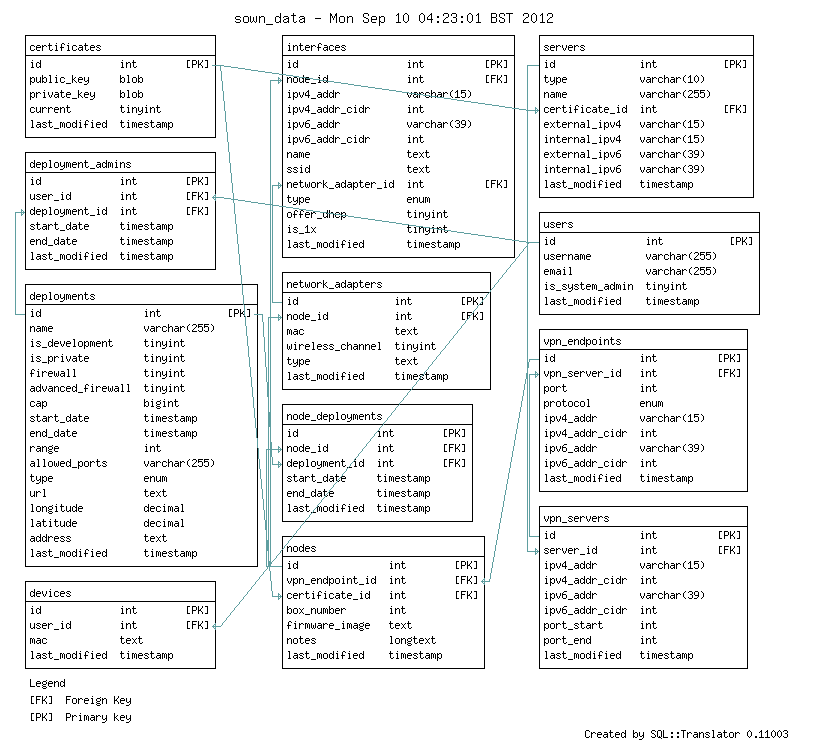
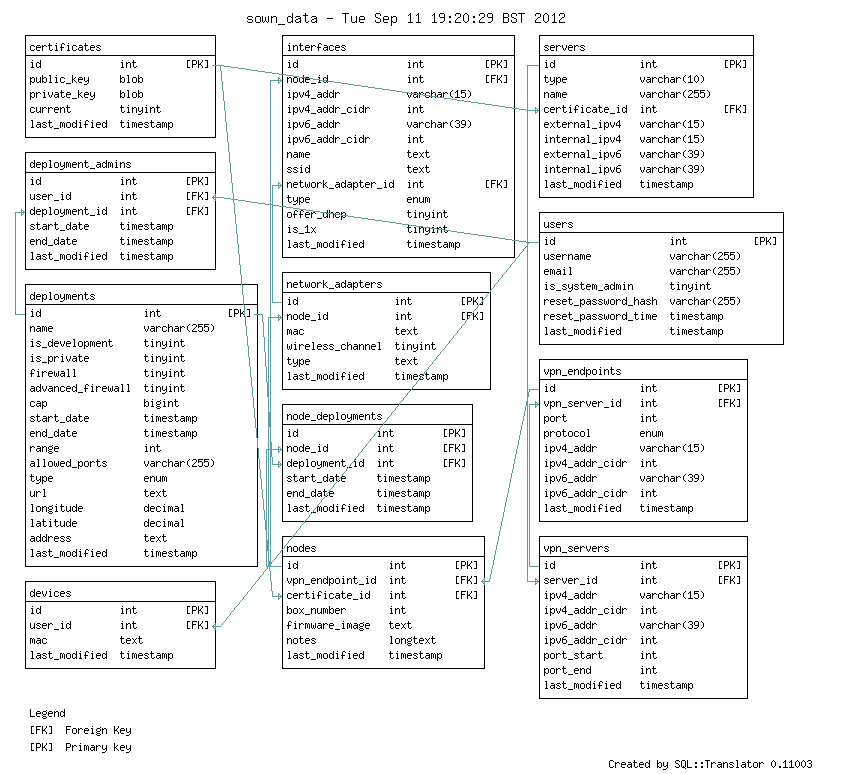
Got forgot and reset passwords view working and moved change password to the login controller.  Updated the User model to support reset of passwordsusing a unique hash

Changed region(s): [[0.0, 0.0, 0.9463, 0.9892], [0.7021, 0.9583, 0.9768, 1.0]]

diff --git a/application/classes/controller/login.php b/application/classes/controller/login.php
@@ -2,6 +2,17 @@
 
 class Controller_Login extends Controller
 {
+        public function check_login($role = NULL)
+        {
+                if (!Auth::instance()->logged_in($role))
+                {
+                        if (!Auth::instance()->logged_in())
+                                $this->request->redirect(Route::url('login').URL::query(array('url' => $this->request->url())));
+                        else
+                                throw new HTTP_Exception_403('You do not have permission to access this page.');
+                }
+        }
+
 	public function action_login_page()
 	{
 		$view = View::Factory("pages/login");
@@ -74,11 +85,12 @@ class Controller_Login extends Controller
 			{
 				$admin_system_url = Kohana::$config->load('system.default.admin_system.url');
 				$sender_name = Kohana::$config->load('system.default.admin_system.sender_name');
-				$user->resetPasswordHash = md5($user->username.date('U').rand());				
-				$user->save(); //This isn't saving the password hash
-				$email_body = "Hi " . $user->username . ",\n\nSomeone has requested a password reset for your account.  Click the following link to reset you password:\n\n" . $admin_system_url . "/reset_password?hash=" . $user->resetPasswordHash . "\n\nTo cancel this password reset click the following link:\n\n" . $admin_system_url . "/cancel_password_reset?hash=" . $user->resetPasswordHash . "\n\nRegards\n\n" . $sender_name . "\n" . Kohana::$config->load('system.default.admin_system.contact_email');
+				$user->resetPasswordHash = md5($user->username . date('U') . rand());
+				$user->resetPasswordTime = new \DateTime();
+				$user->save();
+				$email_body = "Hi " . $user->username . ",\n\nSomeone has requested a password reset for your account.  If this was not you, just ignore this email and the request will expire in 24 hours.  Otherwise, click the following link by " . date('H:i', time()) . " tomorrow to reset your password:\n\n" . $admin_system_url . "/reset_password/" . $user->resetPasswordHash . "\n\nRegards\n\n$sender_name\n" . Kohana::$config->load('system.default.admin_system.contact_email');
 				mail($user->email, Kohana::$config->load('system.default.admin_system.email_subject_prefix') . " Password reset", $email_body, "From: $sender_name <" . Kohana::$config->load('system.default.admin_system.sender_email') . ">");
-				$content->info['message'][] = "An email has been sent to you with a reset password URL";
+				$content->info['notice'][] = "An email has been sent to you with a reset password URL";
 			}
 			else 
 				$content->info['error'][] = "Username / Email address does not belong to a @". $domain ." user";
@@ -87,4 +99,111 @@ class Controller_Login extends Controller
 		$view->content = $content;
 		echo (string) $view->render();
 	}
+	
+        public function action_change_password()
+        {
+                $this->check_login();
+                $view = View::Factory("template");
+                $view->title = "Change Password";
+                $sidebar = View::factory('partial/sidebar');
+                $view->sidebar = $sidebar;
+
+                if(!Auth::instance()->is_local())
+                {
+                        $view->content = "Sorry, but your account password cannot be changed via our system.";
+                }
+                else
+                {
+                        $content = View::factory('pages/change_password');
+                        $content->username = Auth::instance()->get_user();
+                        $content->info = array();
+                        if($this->request->method() == "POST")
+                        {
+                                $oldpassword = $this->request->post('oldpassword');
+                                $password1 = $this->request->post('password1');
+                                $password2 = $this->request->post('password2');
+                                if($password1 != $password2)
+                                {
+                                        $content->info['error'][] = "New passwords do not match";
+                                }
+                                else
+                                {
+                                        if(!Auth::instance()->change_password($oldpassword, $password1))
+                                        {
+                                                $content->info['error'][] = "Failed to update password";
+                                        }
+                                        else
+                                        {
+                                                $content->info['notice'][] = "Password updated successfully";
+                                        }
+                                }
+                        }
+                        $view->content = $content;
+                }
+                echo (string) $view->render();
+        }
+
+        public function action_reset_password()
+        {
+                $view = View::Factory("template");
+                $view->title = "Reset Password";
+                $content = View::factory('pages/reset_password');
+                $content->username = Auth::instance()->get_user();
+                $content->info = array();
+                $content->show_form = true;
+
+                $user = NULL;
+                $reset_password_hash = $this->request->param('hash');
+                if (!empty($reset_password_hash))
+                        $user = Doctrine::em()->getRepository('Model_User')->findOneByResetPasswordHash($reset_password_hash);
+
+                if (!empty($user))
+                {
+                        if ($user->resetPasswordTime !== NULL && $user->resetPasswordTime->getTimestamp()+86400 > time())
+                        {
+                                $content->username = $user->username;
+                                if($this->request->method() == "POST")
+                                {
+                                        $password1 = $this->request->post('password1');
+                                        $password2 = $this->request->post('password2');
+                                        if($password1 != $password2)
+                                        {
+                                                $content->info['error'][] = "New passwords do not match";
+                                        }
+                                        else
+                                        {
+                                                if(!RadAcctUtils::ResetPassword($user->username, $password1))
+                                                {
+                                                        $content->info['error'][] = "Failed to update password";
+                                                }
+                                                else
+                                                {
+                                                        $user->resetPasswordHash = "";
+                                                        $user->resetPasswordTime = NULL;
+                                                        $user->save();
+                                                        $content->info['notice'][] = "Password updated successfully.  <a href='/'>Click here</a> to login.";
+                                                        $content->show_form = false;
+                                                }
+                                        }
+                                }
+                        }
+                        else
+                        {
+                                $user->resetPasswordHash = "";
+                                $user->resetPasswordTime = NULL;
+                                $user->save();
+                                $content->info['error'][] = "Reset password URL has expired";
+                                $content->show_form = false;
+                        }
+
+                }
+                else
+                {
+                        $content->info['error'][] = "User account cannot be found for reset password hash";
+                        $content->show_form = false;
+                }
+                $view->content = $content;
+                echo (string) $view->render();
+        }
+
 }

diff --git a/application/classes/controller/test/config/generic.php b/application/classes/controller/test/config/generic.php
@@ -28,94 +28,6 @@ class Controller_Test_Config_Generic extends Controller
 		$this->removeKeys($keyfiles);
 	}
 
-	public function action_change_password()
-	{
-		$this->check_login();
-		$view = View::Factory("template");
-		$view->title = "Change Password";
-		$sidebar = View::factory('partial/sidebar');
-		$view->sidebar = $sidebar;
-
-		if(!Auth::instance()->is_local())
-		{
-			$view->content = "Sorry, but your account password cannot be changed via our system.";
-		}
-		else
-		{
-			$content = View::factory('pages/change_password');
-			$content->username = Auth::instance()->get_user();
-			$content->info = array();
-			if($this->request->method() == "POST")
-			{
-				$oldpassword = $this->request->post('oldpassword');
-				$password1 = $this->request->post('password1');
-				$password2 = $this->request->post('password2');
-				if($password1 != $password2)
-				{
-					$content->info['error'][] = "New passwords do not match";
-				}
-				else
-				{
-					if(!Auth::instance()->change_password($oldpassword, $password1))
-					{
-						$content->info['error'][] = "Failed to update password";
-					}
-					else
-					{
-						$content->info['notice'][] = "Password updated successfully";
-					}
-				}
-			}
-			$view->content = $content;
-		}
-		echo (string) $view->render();
-	}
-
-	public function action_reset_password()
-        {
-                $view = View::Factory("template");
-                $view->title = "Reset Password";
-                $content = View::factory('pages/reset_password');
-                $content->username = Auth::instance()->get_user();
-                $content->info = array();
-
-		$user = null;
-		$reset_password_hash = $this->request->param('hash');
-		if (!empty($reset_password_hash))
-			$user = findOneByResetPasswordHash($reset_password_hash);
-		
-		if (!empty($user))
-		{
-			$content->username = $user->username;
-			if($this->request->method() == "POST")
-                	{
-                		$password1 = $this->request->post('password1');
-	                        $password2 = $this->request->post('password2');
-                	        if($password1 != $password2)
-                        	{
-                                	$content->info['error'][] = "New passwords do not match";
-                        	}
-	                        else
-        	                {
-					// We need a RadAcctUtils function that can change a password without knowing the old password.
-                                	if(!RadAcctUtils::UpdateUser($user->username, $password1, $OLD_PASSWORD_UNKNOWN))
-	                                {
-        	                                $content->info['error'][] = "Failed to update password";
-                	                }
-                        	        else
-                                	{
-                                        	$content->info['notice'][] = "Password updated successfully";
-	                                }
-        	                }
-               		}
-		}
-		else
-			$content->info['error'][] = "User account cannot be found for reset password hash";
-		
-		$view->content = $content;
-                echo (string) $view->render();
-        }
-
 	public function action_info()
 	{
 		$mydevice = Model_Device::getFromDeviceIP($_SERVER['REMOTE_ADDR']);

diff --git a/application/classes/radacctutils.php b/application/classes/radacctutils.php
@@ -275,9 +275,25 @@ class RadAcctUtils {
 		$res = $query->execute('accounts-'.str_replace('.', '_', RadAcctUtils::GetDomainPart($username)));
 		return ($res[1] == 1);
 	}
+
+	public static function ResetPassword($username, $newpassword)
+        {
+		if (empty($username))
+                {
+                        return FALSE;
+                }
+                if(!RadAcctUtils::IsLocalUser($username))
+                {
+                        return FALSE;
+                }
+
+                return RadAcctUtils::UpdateUser($username, $newpassword);
+        }
 	
-	public static function UpdateUser($username, $password, $oldpassword)
+	public static function UpdateUser($username, $password, $oldpassword = NULL)
 	{
+		if ($oldpassword === NULL)
+			return RadAcctUtils::UpdateUserHashNoOldPassword($username, RadAcctUtils::Hash($password));
 		return RadAcctUtils::UpdateUserHash($username, RadAcctUtils::Hash($password), RadAcctUtils::Hash($oldpassword));
 	}
 	
@@ -289,5 +305,14 @@ class RadAcctUtils {
 		$query->param(':oldhash', $oldhash);
 		$res = $query->execute('accounts-'.str_replace('.', '_', RadAcctUtils::GetDomainPart($username)));
 		return ($res == 1);
+	}
+
+	private static function UpdateUserHashNoOldPassword($username, $hash)
+	{
+                $query = DB::update('radcheck')->set(array('value' => ':hash'))->where('username', '=', ':username')->where('attribute', '=', 'NT-Password')->where('Op', '=', ':=');
+                $query->param(':username', RadAcctUtils::GetUserPart($username));
+                $query->param(':hash', $hash);
+                $res = $query->execute('accounts-'.str_replace('.', '_', RadAcctUtils::GetDomainPart($username)));
+                return ($res == 1);
 	}
 }

diff --git a/application/classes/model/user.php b/application/classes/model/user.php
@@ -37,11 +37,18 @@ class Model_User extends Model_Entity
 	protected $isSystemAdmin;
 
 	/**
-	 * @var text @resetPasswordHash
-	 * 
-	 * @Column(name="reset_password_hash", type="text", nullable=true)
+	 * @var text $resetPasswordHash
+	 *
+	 * @Column(name="reset_password_hash", type="text", nullable=false)
 	 */
 	protected $resetPasswordHash;
+
+        /**
+         * @var text $resetPasswordTime
+         *
+         * @Column(name="reset_password_time", type="datetime", nullable=true)
+         */
+        protected $resetPasswordTime;
 	
 	/**
 	 * @OneToMany(targetEntity="Model_DeploymentAdmin", mappedBy="user")
@@ -95,7 +102,7 @@ class Model_User extends Model_Entity
 	public function __toString()
 	{
 		$this->logUse();
-		$str  = "User: {$this->id}, username={$this->username}, email={$this->email}, isSystemAdmin={$this->isSystemAdmin}";
+		$str  = "User: {$this->id}, username={$this->username}, email={$this->email}, isSystemAdmin={$this->isSystemAdmin}, resetPasswordHash={$this->resetPasswordHash}, resetPasswordHash={$this->resetPasswordTime->getTimestamp()}";
 		foreach($this->admins as $admin)
 		{
 			$str .= "<br/>";
@@ -115,7 +122,8 @@ class Model_User extends Model_Entity
 		$str  = "<div class='user' id='user_{$this->id}'>";
 		$str .= "<table>";
 		$str .= "<tr class='ID'><th>User</th><td>{$this->id}</td></tr>";
-		foreach(array('username', 'email', 'isSystemAdmin') as $field)
+		//TODO Add resetPasswordTime when we figure out hiw to get fieldHTML to convert Datetime into a string
+		foreach(array('username', 'email', 'isSystemAdmin', 'resetPasswordHash') as $field)
 		{
 			$str .= $this->fieldHTML($field);
 		}

diff --git a/application/bootstrap.php b/application/bootstrap.php
@@ -172,16 +172,14 @@ Route::set('forgot_password', 'forgot_password', array(
 Route::set('change_password', 'admin/change_password', array(
         ))
         ->defaults(array(
-		'directory'  => 'test/config',
-		'controller' => 'generic',
+		'controller' => 'login',
                 'action'     => 'change_password',
         ));
 
-Route::set('change_password', 'reset_password', array(
+Route::set('reset_password', 'reset_password/<hash>', array(
         ))
         ->defaults(array(
-                'directory'  => 'test/config',
-                'controller' => 'generic',
+                'controller' => 'login',
                 'action'     => 'reset_password',
         ));
 

diff --git a/application/views/pages/reset_password.php b/application/views/pages/reset_password.php
@@ -6,6 +6,8 @@ foreach($info as $class => $classinfo)
 		echo '<div class=\''.$class.'\'>'.$i.'</div>';
 	}
 }
+if ($show_form)
+{
 ?>
 <form method="POST">
 	<input name='reset_password_hash' type='hidden' />
@@ -16,3 +18,4 @@ foreach($info as $class => $classinfo)
 		<tr><th></th><td><input type='submit' name='submit' value='Reset Password' /></td></tr>
 	</table>
 </form>
+<?php } ?>
